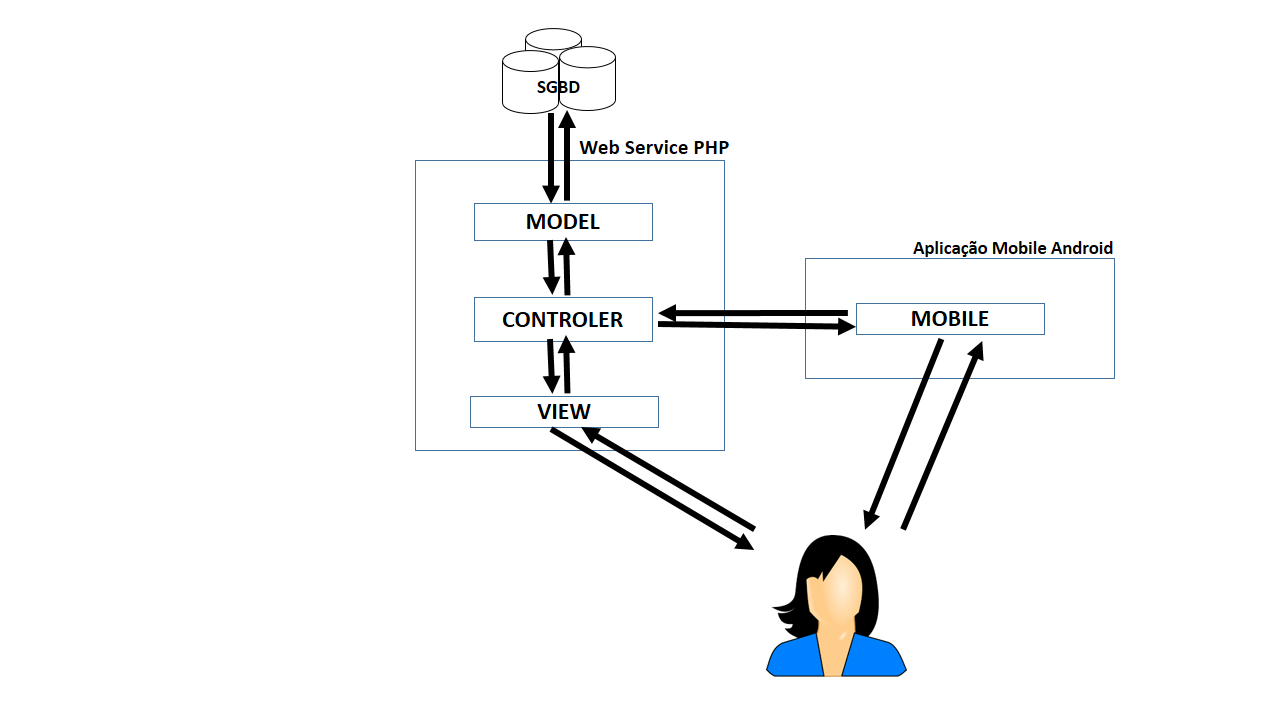
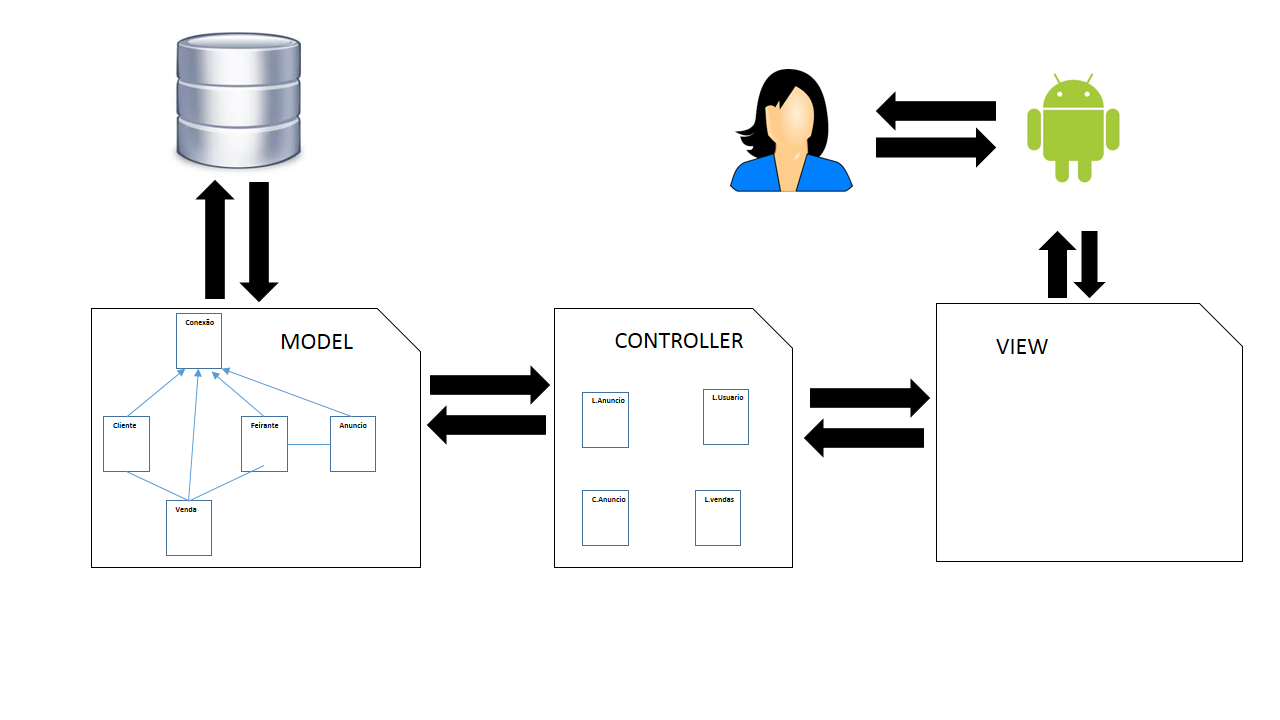
Update class model

diff --git a/FindFer-Project/model/Client.php b/FindFer-Project/model/Client.php
@@ -76,7 +76,7 @@ Class Client extends Connection implements User{
         function setNotify($notify) {
             $this->notify = $notify;
         }
-
+        
         public function registerUser() {//Usa a funçao insert de Connection -- Exclusivo de User
             $client = array('name_user' => $this->name, 'id_conta' => 1,
                             'qualification' => 0, 'id_media' =>  $this->media,
@@ -84,12 +84,11 @@ Class Client extends Connection implements User{
             $this->insert('user', $client);
             
 	}
-        function listMarketer(){
-             $marketer = $this->select('user');
-            return $marketer;
+        function listMarketer($params){
+             return $this->select($params);
         }
-
-
+        
+        
         public function requestRelationship($idUser) {
             $date = date("Y-m-d");
             $data = array('id_marketer'=>$idUser, 'id_client'=>  $this->idClient,'date_relationship'=>$date,'status'=>1);
@@ -99,12 +98,12 @@ Class Client extends Connection implements User{
         function changeAccount($newAccount){
             $this->update('user', array('id_account'=>$newAccount,'id_coordinate'=>$this->coordinates),"id_user = {$this->idClient}");
         }
-        function getQuery($table, $params = null, $fields = '*') {
+        function getQuery($params) {
             $params = ($params)?" {$params}":null;
             return "SELECT {$fields} FROM {$table}{$params}";
         }
-                function toString(){
+        function toString(){
             return "Nome: ".$this->name." Qualificação: ".$this->qualification."<br/>";
         }
-
+        
 }

diff --git a/FindFer-Project/model/Account.php b/FindFer-Project/model/Account.php
@@ -59,9 +59,19 @@ class Account extends Connection{
     function setSaleValue($saleValue) {
         $this->saleValue = $saleValue;
     }
-    function getQuery($table, $params = null, $fields = '*') {
-            $params = ($params)?" {$params}":null;
-            return "SELECT {$fields} FROM {$table}{$params}";
+    function newAccount(){
+        
+    }
+            
+    function loadAccount($params){
+        return $this->select($params);
+    }
+            
+    function getQuery($params) {
+            if(!$params){
+                return "SELECT * FROM account";
+            }
+            return "SELECT {$params['fields']} FROM account WHERE id_account = {$params['params']}";
         }
 
 

diff --git a/FindFer-Project/control/LoadPosters.php b/FindFer-Project/control/LoadPosters.php
@@ -17,8 +17,9 @@ class LoadPosters{
     function selectPosts(){
         $post = new Poster($this->marketPlace);
         $posters = $post->getListPosters($this->params);
-         header('Content-Type: application/json');
-        echo json_encode(array("posts"=>$posters));
+        header('Content-Type: application/json');
+        $jdata = json_encode(array("posts"=>$posters));
+        header("Location: ../view/JsonDataView.php?data={$jdata}");
     }
 }
 

diff --git a/FindFer-Project/control/timezone/TimeZone.php b/FindFer-Project/control/timezone/TimeZone.php
@@ -1,0 +1,16 @@
+<?php
+
+/*
+ * To change this license header, choose License Headers in Project Properties.
+ * To change this template file, choose Tools | Templates
+ * and open the template in the editor.
+ */
+
+/**
+ * Description of TimeZone
+ *
+ * @author Cicero
+ */
+class TimeZone {
+    //put your code here
+}

diff --git a/FindFer-Project/view/JsonDataView.php b/FindFer-Project/view/JsonDataView.php
@@ -1,0 +1,11 @@
+<?php
+$data = $_GET['data'];
+$json = new JsonData();
+$json->view($data);
+class JsonData {
+    function __construct() {  
+    }
+    function view($data){
+        echo $data;
+    }
+}

diff --git a/README.md b/README.md
@@ -2,24 +2,28 @@
 Projeto de Aplicação de anúncios para feiras, desenvolvido durante a disciplina de programação corporativa
 
 # Componentes:
-Cícero
-Fábio
+Cícero Leonardo da Silva
 
 # Descrição
 O FindFer é uma platraforma de anúncios e vendas voltada específicamente para feiras, feirantes e clientes de
 feiras, que visa criar uma conexão entre feirantes e seus clientes e potenciais clientes, insentivando as
 pessoas a comprarem em feiras e aumentar o fluxo de pessoas nas feiras e consequentemente as vendas e proporcionar
 uma forma de venda online para comodidade dos seus usuários.
-
+# Diagrama de Arquitetura da Solução
+!["Diagrama de Arquitetura da solução"](/Documentos/Diagrama_Arquitetura_Solucao.png)
+A aplicação foi desenvolvido em PHP com a possibilidade de uso de diversos SGBDs, contudo inicialmente foi utlizado 
+o MYSQL pela facilidade de uso e estabilida para testes iniciais. Foi aplicado o padrão MVC onde divimos as funcionalidades 
+do sistema em classes de modelo, controle e visualização.
 # Diagrama de caso de uso
 !["Diagrama de caso de uso"](/Documentos/Diagrama_de_caso_de_uso.png)
+O diagrama de caso de uso modela as principais interações dos atores com o sistema.
 # Diagrama de classes
 !["Diagrama de classes"](/Documentos/Diagrama_de_Classes.png)
+O diagrama de classes mostra as classes e como estão relacionadas.
 
 # Modelo Entidade Relacionamento
 
 !["Modelo Entidade Relacionamento"](/Documentos/Diagrama_Entidade_Relacionamento.png)
+O diagrama entidade relacionamento mostra como estão relacionada as tabelas do banco de dados.
 
-# Diagrama de Estrutura da solução
-!["Diagrama de Estrutura"](/Documentos/Diagrama_Arquitetura_Solucao.png)
  
